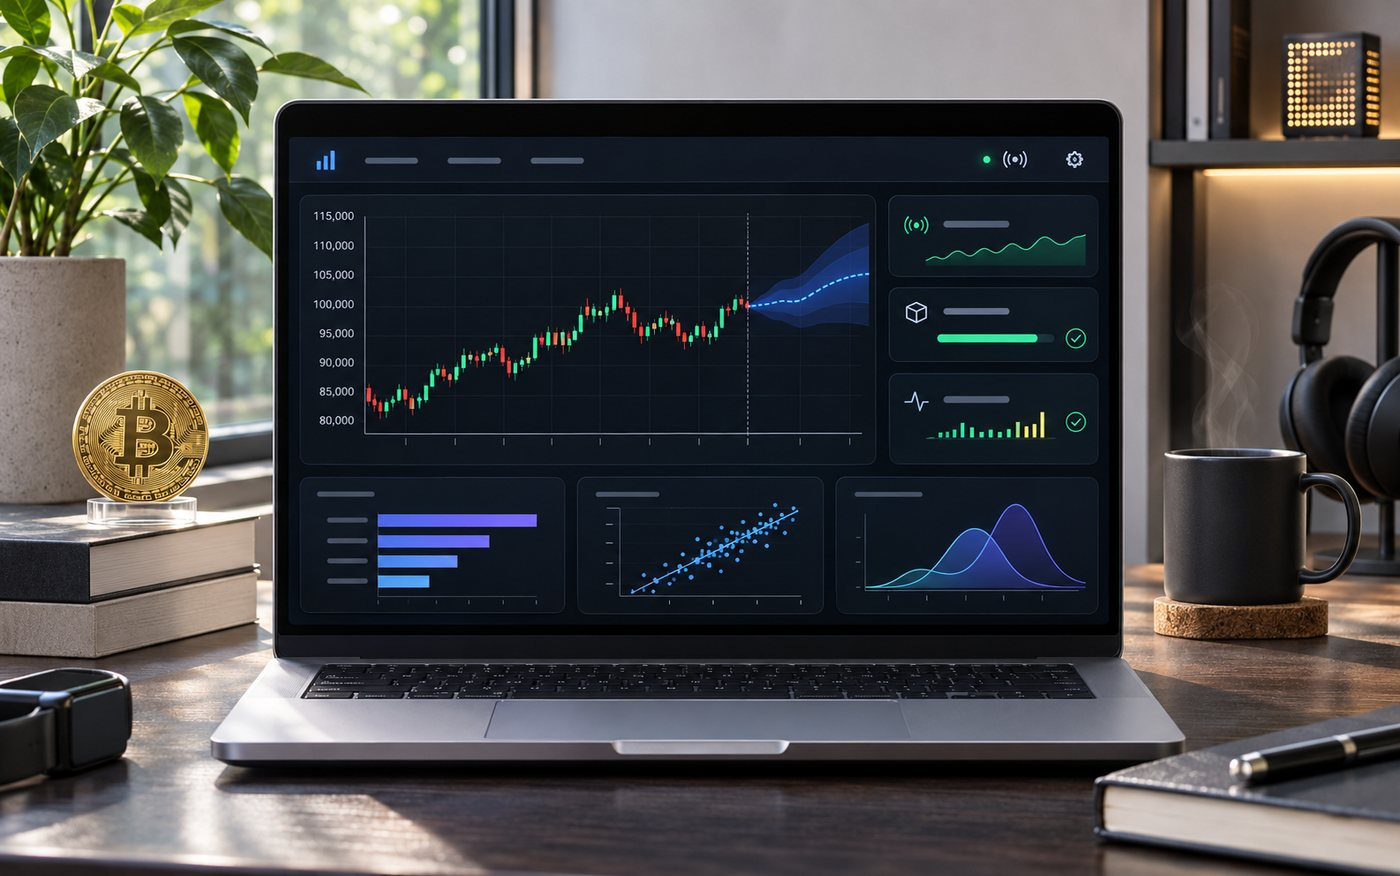
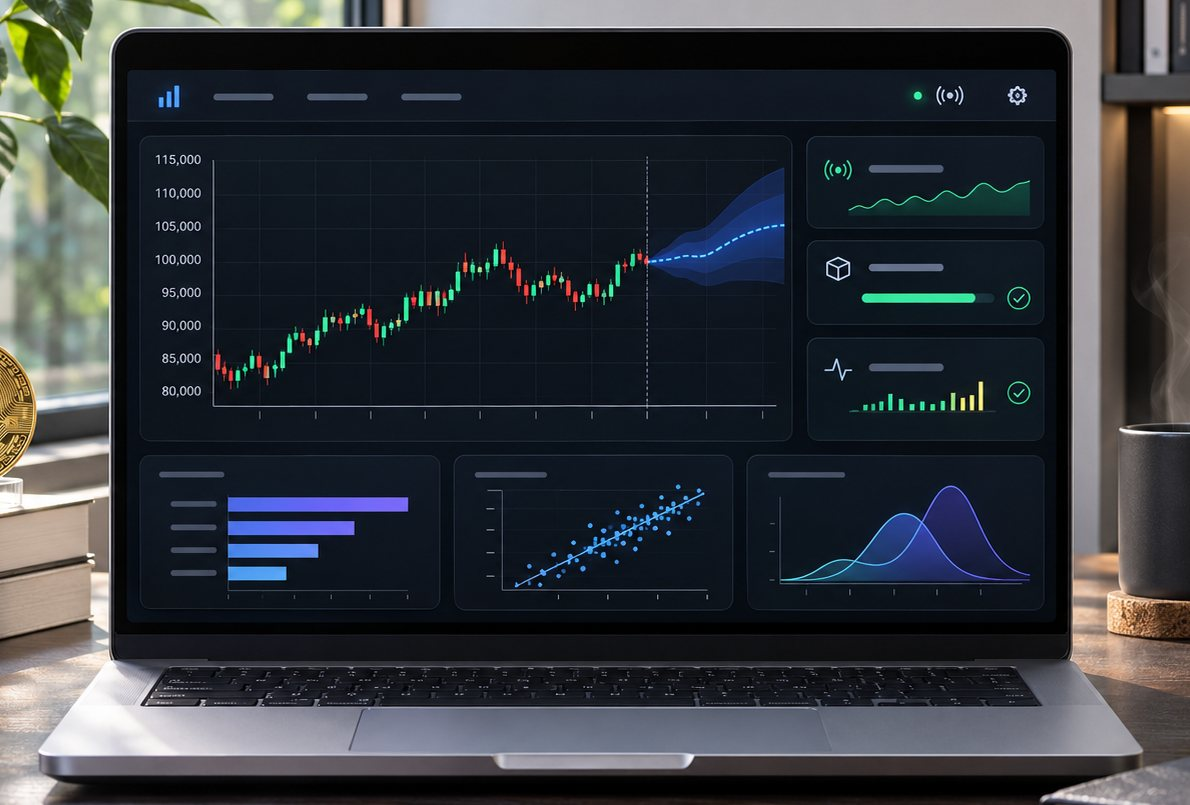
Tighter project image crops at a smaller size

diff --git a/index.html b/index.html
@@ -12,7 +12,7 @@
   <link href="https://fonts.googleapis.com/css2?family=Fraunces:ital,opsz,wght@0,9..144,400..700;1,9..144,400..700&family=Figtree:wght@400;500;600;700&family=Caveat:wght@500;700&family=IBM+Plex+Mono:wght@400;500&display=swap" rel="stylesheet" />
   <link rel="stylesheet" href="https://cdn.jsdelivr.net/gh/devicons/devicon@v2.16.0/devicon.min.css" />
   <link rel="stylesheet" href="assets/shared/base.css" />
-  <link rel="stylesheet" href="assets/css/site.css?v=13" />
+  <link rel="stylesheet" href="assets/css/site.css?v=14" />
 </head>
 <body>
 <header class="topnav" id="nav">
@@ -67,8 +67,8 @@
   <p>♩ = 96 · best with hot chocolate</p>
 </footer>
 
-<script src="assets/shared/content.js?v=13"></script>
-<script src="assets/shared/render.js?v=13"></script>
-<script src="assets/js/site.js?v=13"></script>
+<script src="assets/shared/content.js?v=14"></script>
+<script src="assets/shared/render.js?v=14"></script>
+<script src="assets/js/site.js?v=14"></script>
 </body>
 </html>

diff --git a/assets/shared/render.js b/assets/shared/render.js
@@ -121,7 +121,7 @@
     projects(c) {
       return `<div class="projects">${S.projects.map((p, i) => `
       <article class="entry project${p.image ? " project-wide" : ""}" data-i="${i}">
-        <div class="project-art${p.image ? " has-shot" : ""}">${p.image ? `<img class="project-shot" src="${c.base}${p.image}" alt="${esc(p.title)} preview" loading="lazy" width="1400" height="876" />` : ART[p.art] || ""}${p.award ? `<span class="award">${p.award}</span>` : ""}</div>
+        <div class="project-art${p.image ? " has-shot" : ""}">${p.image ? `<img class="project-shot" src="${c.base}${p.image}" alt="${esc(p.title)} preview" loading="lazy" />` : ART[p.art] || ""}${p.award ? `<span class="award">${p.award}</span>` : ""}</div>
         <div class="project-body">
           <p class="kicker">${p.kicker}</p>
           <h3>${p.title}</h3>

diff --git a/assets/css/site.css b/assets/css/site.css
@@ -297,5 +297,5 @@ body { background: var(--paper), var(--bg); }
 /* screenshot projects: big image banner on top, write-up below */
 .project.project-wide, .project.project-wide:nth-child(even) { grid-template-columns: 1fr; }
 .project-wide .project-art, .project-wide:nth-child(even) .project-art { order: 0; min-height: 0; padding: clamp(16px, 2.6vw, 30px) clamp(16px, 2.6vw, 30px) 0; background: none; }
-.project-wide .project-shot { max-width: 980px; margin: 0 auto; }
+.project-wide .project-shot { max-width: 680px; margin: 0 auto; }
 .project-wide .project-art .award { top: clamp(24px, 3.4vw, 40px); left: clamp(24px, 3.4vw, 40px); }
